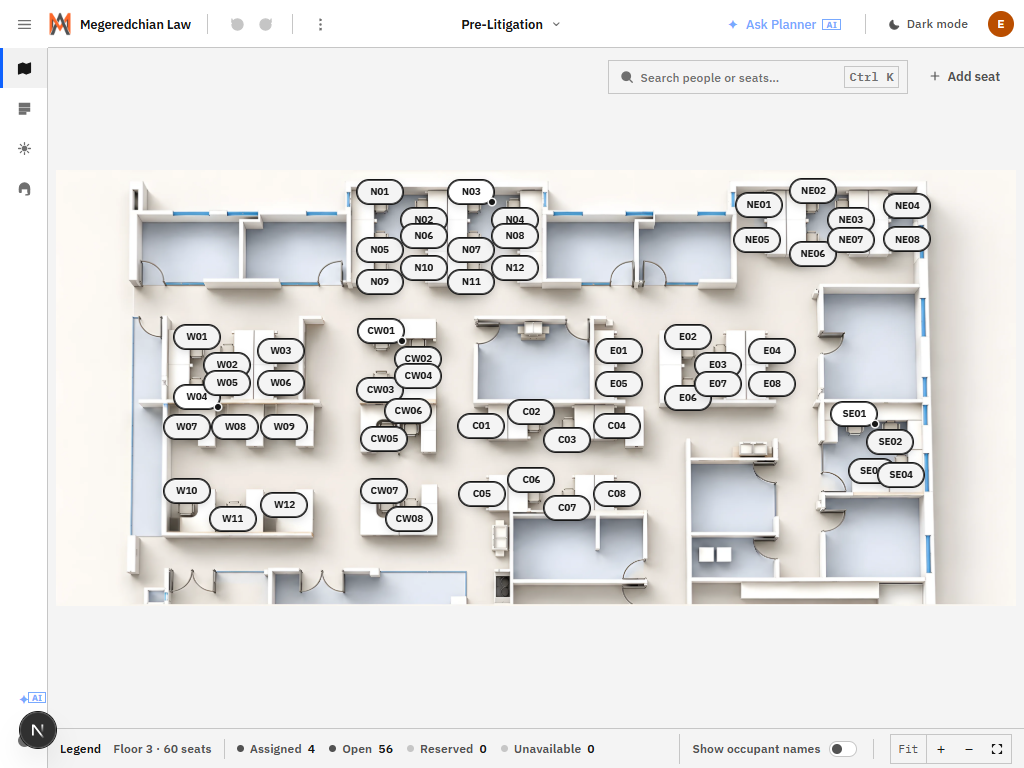
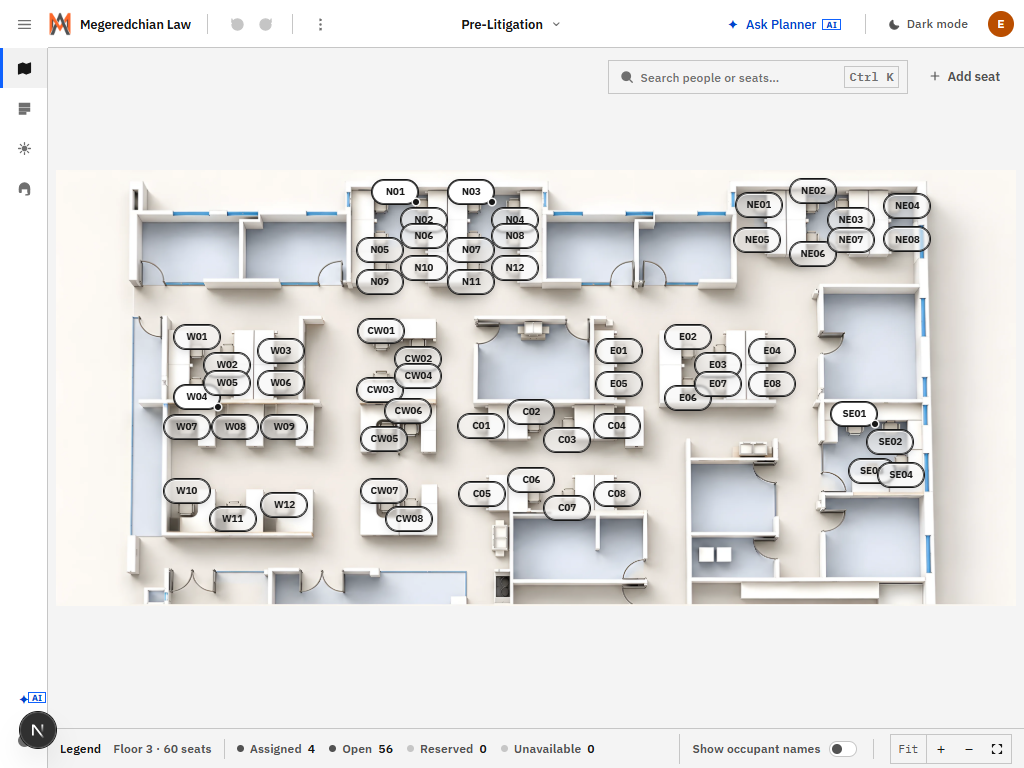
fix(redesign-v2): phase 4 PR 1 — contrast placeholders the axe scans caught
CI's e2e-auth axe scans failed 28 times on one cause: the old chrome
follows the theme now (light in the light theme), so bridge aliases
that assumed a dark surface rendered blue 40 / white on white.

- phase4-bridge.css: --sp-chrome-heading/-value/-info-text → text-primary,
  --sp-chrome-label → text-secondary, --sp-chrome-info → layer-02,
  --sp-ai-chrome-border → ai-border-start, --sp-ai-chrome-text →
  ai-label-text-hover (blue 70; blue 60 is 4.42:1 on the hovered fill),
  --sp-marker-available-surface → a translucent color-mix (the old 55%
  frost: an opaque fill under the 45% dim can never clear 4.5:1).
- Blue 60 link text on the layer-hover fill (4.08:1) → --sp-link-hover in
  every className that pairs the two (17 sites); the Management monogram
  → text-primary; helper text in the swap dialog's layer-accent cards →
  text-secondary.
- Screenshots regenerated; PHASE4BUILD §1.5 records the corrections.

Verified locally on a fresh Docker stack: test:e2e:auth 30/30, runtime
audit 0 undefined var(), npm test 1390/0.

Claude-Session: https://claude.ai/code/session_01NxF2qDwjPePWdZetFUFDzU

diff --git a/components/seat-map/SeatMap.tsx b/components/seat-map/SeatMap.tsx
@@ -2566,8 +2566,8 @@ export function SeatMap({
       : "border-[var(--sp-editor-saved-border)] bg-[var(--sp-editor-saved-bg)] text-[var(--sp-editor-saved-text)]",
     canvasBannerSafeAreaClassName
   ].filter(Boolean).join(" ");
-  const resultActionButtonClassName = "relative inline-flex min-h-8 items-center justify-center rounded-lg border border-[var(--sp-border-strong)] bg-[var(--sp-layer-01)] px-3 py-1.5 text-xs font-semibold text-[var(--sp-text-secondary)] transition after:absolute after:-inset-y-1.5 after:inset-x-0 hover:border-[var(--sp-border-interactive)] hover:bg-[var(--sp-layer-hover)] hover:text-[var(--sp-link)] active:scale-[0.97] active:duration-75 active:shadow-inner focus-visible:outline-none focus-visible:ring-4 focus-visible:ring-[color:var(--sp-focus)] disabled:cursor-not-allowed disabled:opacity-50";
-  const resultClearButtonClassName = "relative inline-flex min-h-8 items-center justify-center rounded-lg border border-[var(--sp-border-interactive)] bg-[var(--sp-layer-hover)] px-3 py-1.5 text-xs font-semibold text-[var(--sp-link)] transition after:absolute after:-inset-y-1.5 after:inset-x-0 hover:border-[var(--sp-interactive)] hover:bg-[rgba(242,110,34,0.16)] active:scale-[0.97] active:duration-75 active:shadow-inner focus-visible:outline-none focus-visible:ring-4 focus-visible:ring-[color:var(--sp-focus)]";
+  const resultActionButtonClassName = "relative inline-flex min-h-8 items-center justify-center rounded-lg border border-[var(--sp-border-strong)] bg-[var(--sp-layer-01)] px-3 py-1.5 text-xs font-semibold text-[var(--sp-text-secondary)] transition after:absolute after:-inset-y-1.5 after:inset-x-0 hover:border-[var(--sp-border-interactive)] hover:bg-[var(--sp-layer-hover)] hover:text-[var(--sp-link-hover)] active:scale-[0.97] active:duration-75 active:shadow-inner focus-visible:outline-none focus-visible:ring-4 focus-visible:ring-[color:var(--sp-focus)] disabled:cursor-not-allowed disabled:opacity-50";
+  const resultClearButtonClassName = "relative inline-flex min-h-8 items-center justify-center rounded-lg border border-[var(--sp-border-interactive)] bg-[var(--sp-layer-hover)] px-3 py-1.5 text-xs font-semibold text-[var(--sp-link-hover)] transition after:absolute after:-inset-y-1.5 after:inset-x-0 hover:border-[var(--sp-interactive)] hover:bg-[rgba(242,110,34,0.16)] active:scale-[0.97] active:duration-75 active:shadow-inner focus-visible:outline-none focus-visible:ring-4 focus-visible:ring-[color:var(--sp-focus)]";
   const visibleMapSpan = Math.max(0, mapVisibleRange.right - mapVisibleRange.left);
   const mapPixelsPerNormalizedUnit = visibleMapSpan > 0 && mapVisibleRange.viewportWidth > 0
     ? mapVisibleRange.viewportWidth / visibleMapSpan
@@ -3299,7 +3299,7 @@ export function SeatMap({
                   className={[
                     "pointer-events-auto relative flex h-8 items-center gap-1.5 border px-3 text-[12.5px] font-semibold shadow-sp transition after:absolute after:-inset-y-1.5 after:inset-x-0 active:scale-[0.97] active:duration-75 focus-visible:outline-none focus-visible:ring-2 focus-visible:ring-[var(--sp-focus)]",
                     addSeatMode
-                      ? "border-[var(--sp-interactive)] bg-[var(--sp-layer-hover)] text-[var(--sp-link)]"
+                      ? "border-[var(--sp-interactive)] bg-[var(--sp-layer-hover)] text-[var(--sp-link-hover)]"
                       : "border-[var(--sp-border-subtle)] bg-[var(--sp-layer-01)] text-[var(--sp-text-secondary)] hover:bg-[var(--sp-background)] hover:text-[var(--sp-text-primary)]"
                   ].join(" ")}
                 >
@@ -3696,7 +3696,7 @@ export function SeatMap({
             </p>
           )}
           <div className="mt-3 flex flex-wrap items-center gap-2">
-            <button type="button" onClick={activeMode.onExit} className="shrink-0 whitespace-nowrap rounded-full bg-[var(--sp-layer-hover)] px-3 py-1.5 text-xs font-semibold text-[var(--sp-link)] ring-1 ring-[var(--sp-border-interactive)] transition hover:bg-sp-surface active:scale-[0.97] active:duration-75 active:shadow-inner focus-visible:outline-none focus-visible:ring-4 focus-visible:ring-[color:var(--sp-focus)]">
+            <button type="button" onClick={activeMode.onExit} className="shrink-0 whitespace-nowrap rounded-full bg-[var(--sp-layer-hover)] px-3 py-1.5 text-xs font-semibold text-[var(--sp-link-hover)] ring-1 ring-[var(--sp-border-interactive)] transition hover:bg-sp-surface active:scale-[0.97] active:duration-75 active:shadow-inner focus-visible:outline-none focus-visible:ring-4 focus-visible:ring-[color:var(--sp-focus)]">
               {activeMode.exitLabel}
             </button>
             <span className="rounded-full bg-[var(--sp-background)] px-2 py-1 text-xs font-semibold text-[var(--sp-text-helper)] ring-1 ring-[var(--sp-border-subtle)]">Esc exits</span>

diff --git a/components/seat-map/ResultsPanel.tsx b/components/seat-map/ResultsPanel.tsx
@@ -172,7 +172,7 @@ export function ResultsPanel({
                   onClick={() => onShowOnMap(result.seatId as string)}
                   aria-label={`Show ${result.title} on the map`}
                   title={`Show ${result.title} on the map`}
-                  className="relative my-1 mr-1 flex shrink-0 items-center self-center whitespace-nowrap rounded-lg border border-[var(--sp-border-subtle)] bg-[var(--sp-layer-01)] px-2.5 py-1 text-xs font-semibold text-[var(--sp-button-primary)] transition after:absolute after:-inset-y-2.5 after:inset-x-0 hover:border-[var(--sp-border-interactive)] hover:bg-[var(--sp-layer-hover)] hover:text-[var(--sp-link)] focus-visible:outline-none focus-visible:ring-4 focus-visible:ring-[color:var(--sp-focus)]"
+                  className="relative my-1 mr-1 flex shrink-0 items-center self-center whitespace-nowrap rounded-lg border border-[var(--sp-border-subtle)] bg-[var(--sp-layer-01)] px-2.5 py-1 text-xs font-semibold text-[var(--sp-button-primary)] transition after:absolute after:-inset-y-2.5 after:inset-x-0 hover:border-[var(--sp-border-interactive)] hover:bg-[var(--sp-layer-hover)] hover:text-[var(--sp-link-hover)] focus-visible:outline-none focus-visible:ring-4 focus-visible:ring-[color:var(--sp-focus)]"
                 >
                   Show on map
                 </button>
@@ -197,7 +197,7 @@ export function ResultsPanel({
               </button>
             )}
             {searchActive && structuredFiltersActive && (
-              <button type="button" onClick={onClearAll} className="relative rounded-lg border border-[var(--sp-border-interactive)] bg-[var(--sp-layer-hover)] px-3 py-1.5 text-xs font-semibold text-[var(--sp-link)] transition after:absolute after:-inset-y-2 after:inset-x-0 hover:border-[var(--sp-interactive)] focus-visible:outline-none focus-visible:ring-4 focus-visible:ring-[color:var(--sp-focus)]">
+              <button type="button" onClick={onClearAll} className="relative rounded-lg border border-[var(--sp-border-interactive)] bg-[var(--sp-layer-hover)] px-3 py-1.5 text-xs font-semibold text-[var(--sp-link-hover)] transition after:absolute after:-inset-y-2 after:inset-x-0 hover:border-[var(--sp-interactive)] focus-visible:outline-none focus-visible:ring-4 focus-visible:ring-[color:var(--sp-focus)]">
                 Clear all
               </button>
             )}

diff --git a/components/seat-map/FilterPanel.tsx b/components/seat-map/FilterPanel.tsx
@@ -94,7 +94,7 @@ export function ActiveFilterChips({
         <button
           type="button"
           onClick={onClearAll}
-          className="relative inline-flex min-h-6 items-center border border-[var(--sp-border-interactive)] bg-[var(--sp-layer-hover)] px-2.5 py-1 text-xs font-semibold text-[var(--sp-link)] transition after:absolute after:-inset-y-[3px] after:inset-x-0 hover:bg-[color-mix(in_srgb,var(--sp-interactive)_16%,transparent)] focus-visible:outline-none focus-visible:ring-2 focus-visible:ring-[color:var(--sp-focus)]"
+          className="relative inline-flex min-h-6 items-center border border-[var(--sp-border-interactive)] bg-[var(--sp-layer-hover)] px-2.5 py-1 text-xs font-semibold text-[var(--sp-link-hover)] transition after:absolute after:-inset-y-[3px] after:inset-x-0 hover:bg-[color-mix(in_srgb,var(--sp-interactive)_16%,transparent)] focus-visible:outline-none focus-visible:ring-2 focus-visible:ring-[color:var(--sp-focus)]"
         >
           Clear all
         </button>
@@ -272,7 +272,7 @@ export function FilterPanel({
           <button
             type="button"
             onClick={matchSummaryAction.onClick}
-            className="relative inline-flex items-center min-h-6 border border-[var(--sp-border-interactive)] bg-[var(--sp-layer-01)] px-2.5 py-1 text-xs font-semibold text-[var(--sp-link)] transition after:absolute after:-inset-y-2.5 after:inset-x-0 hover:bg-[var(--sp-layer-hover)] focus-visible:outline-none focus-visible:ring-2 focus-visible:ring-[color:var(--sp-focus)]"
+            className="relative inline-flex items-center min-h-6 border border-[var(--sp-border-interactive)] bg-[var(--sp-layer-01)] px-2.5 py-1 text-xs font-semibold text-[var(--sp-link-hover)] transition after:absolute after:-inset-y-2.5 after:inset-x-0 hover:bg-[var(--sp-layer-hover)] focus-visible:outline-none focus-visible:ring-2 focus-visible:ring-[color:var(--sp-focus)]"
           >
             {matchSummaryAction.label}
           </button>

diff --git a/components/seat-map/SeatInspector.tsx b/components/seat-map/SeatInspector.tsx
@@ -353,7 +353,7 @@ function ContactFacts({ rows, canEdit }: { rows: ContactFactRow[]; canEdit: bool
               onClick={() => copyExtension(row.value)}
               aria-label={`Copy extension ${row.value}`}
               title={copiedValue === row.value ? "Copied" : `Copy extension ${row.value}`}
-              className="relative flex h-8 w-8 shrink-0 items-center justify-center bg-[var(--sp-background)] text-[var(--sp-link)] transition after:absolute after:-inset-x-1.5 after:-inset-y-[5px] hover:bg-[var(--sp-layer-hover)] focus-visible:outline-none focus-visible:ring-2 focus-visible:ring-[var(--sp-focus)]"
+              className="relative flex h-8 w-8 shrink-0 items-center justify-center bg-[var(--sp-background)] text-[var(--sp-link-hover)] transition after:absolute after:-inset-x-1.5 after:-inset-y-[5px] hover:bg-[var(--sp-layer-hover)] focus-visible:outline-none focus-visible:ring-2 focus-visible:ring-[var(--sp-focus)]"
             >
               {copiedValue === row.value ? <CheckGlyph /> : <CopyGlyph />}
               {/* Live confirmation for screen readers (and the ct test's
@@ -1241,7 +1241,7 @@ export function SeatInspector({
                               index === activeEmployeeIndex ? "bg-[var(--sp-background)] text-[var(--sp-text-primary)]" : "text-[var(--sp-text-secondary)] hover:bg-[var(--sp-layer-hover)]"
                             ].join(" ")}
                           >
-                            <span className="mt-0.5 flex h-8 w-8 shrink-0 items-center justify-center rounded-full bg-[var(--sp-layer-hover)] text-[11px] font-bold text-[var(--sp-link)]">
+                            <span className="mt-0.5 flex h-8 w-8 shrink-0 items-center justify-center rounded-full bg-[var(--sp-layer-hover)] text-[11px] font-bold text-[var(--sp-link-hover)]">
                               {buildInitials(option.employee.full_name) || "?"}
                             </span>
                             <span className="min-w-0 flex-1">

diff --git a/components/ui/design-system.tsx b/components/ui/design-system.tsx
@@ -27,7 +27,7 @@ const buttonVariants: Record<ButtonVariant, string> = {
   primary:
     "border-[var(--sp-button-primary)] bg-[var(--sp-button-primary)] text-white hover:border-[var(--sp-button-primary-hover)] hover:bg-[var(--sp-button-primary-hover)] active:border-[var(--sp-button-primary-active)] active:bg-[var(--sp-button-primary-active)]",
   secondary:
-    "border-[var(--sp-border-strong)] bg-[var(--sp-layer-02)] text-[var(--sp-text-primary)] hover:border-[var(--sp-button-primary)] hover:bg-[var(--sp-layer-hover)] hover:text-[var(--sp-link)] active:border-[var(--sp-button-primary)] active:bg-[var(--sp-layer-active)]",
+    "border-[var(--sp-border-strong)] bg-[var(--sp-layer-02)] text-[var(--sp-text-primary)] hover:border-[var(--sp-button-primary)] hover:bg-[var(--sp-layer-hover)] hover:text-[var(--sp-link-hover)] active:border-[var(--sp-button-primary)] active:bg-[var(--sp-layer-active)]",
   quiet:
     "border-transparent bg-transparent text-[var(--sp-text-helper)] hover:bg-[var(--sp-layer-accent)] hover:text-[var(--sp-text-secondary)] active:bg-[var(--sp-text-secondary)] active:text-[var(--sp-text-secondary)]",
   destructive:
@@ -111,7 +111,7 @@ export type IconButtonProps = Omit<ButtonHTMLAttributes<HTMLButtonElement>, "ari
 
 const iconButtonVariants: Record<IconButtonVariant, string> = {
   neutral:
-    "border-[var(--sp-border-strong)] bg-[var(--sp-layer-02)] text-[var(--sp-text-secondary)] hover:border-[var(--sp-button-primary)] hover:bg-[var(--sp-layer-hover)] hover:text-[var(--sp-link)]",
+    "border-[var(--sp-border-strong)] bg-[var(--sp-layer-02)] text-[var(--sp-text-secondary)] hover:border-[var(--sp-button-primary)] hover:bg-[var(--sp-layer-hover)] hover:text-[var(--sp-link-hover)]",
   primary:
     "border-[var(--sp-button-primary)] bg-[var(--sp-button-primary)] text-white hover:border-[var(--sp-button-primary-hover)] hover:bg-[var(--sp-button-primary-hover)]",
   destructive:

diff --git a/app/styles/phase4-bridge.css b/app/styles/phase4-bridge.css
@@ -45,9 +45,9 @@
   --sp-ai-accent-soft: var(--sp-ai-border-start);
   --sp-ai-aura: transparent;
   --sp-ai-border: var(--sp-ai-border-start);
-  --sp-ai-chrome-border: var(--sp-ai-border-end);
-  --sp-ai-chrome-text: var(--sp-panel-dark-link);
-  --sp-ai-chrome-text-hover: var(--sp-panel-dark-link-hover);
+  --sp-ai-chrome-border: var(--sp-ai-border-start);
+  --sp-ai-chrome-text: var(--sp-ai-label-text-hover); /* blue 70: blue 60 is 4.42 on the hovered chrome fill (PHASE3DS §3 instance 2) */
+  --sp-ai-chrome-text-hover: var(--sp-ai-label-text-hover);
   --sp-ai-glow: transparent;
   --sp-ai-marker-aura: transparent;
   --sp-ai-marker-shadow: none;
@@ -55,10 +55,10 @@
   --sp-ai-panel-border: var(--sp-ai-border-start);
   --sp-ai-row: var(--sp-layer-hover);
   --sp-ai-text: var(--sp-ai-label-text);
-  --sp-chrome-heading: var(--sp-panel-dark-text);
+  --sp-chrome-heading: var(--sp-text-primary);
   --sp-chrome-height: var(--sp-shell-header-h);
-  --sp-chrome-info: var(--sp-panel-dark-layer);
-  --sp-chrome-info-text: var(--sp-panel-dark-text);
+  --sp-chrome-info: var(--sp-layer-02);
+  --sp-chrome-info-text: var(--sp-text-primary);
   --sp-chrome-scrim: var(--sp-overlay);
   --sp-editor-clean-bg: var(--sp-status-neutral-surface);
   --sp-editor-clean-border: var(--sp-status-neutral-mark);
@@ -125,7 +125,7 @@
   --sp-marker-assigned-surface: var(--sp-pill-fill);
   --sp-marker-assigned-text: var(--sp-pill-text);
   --sp-marker-available-border: var(--sp-seat-mark-stroke-color);
-  --sp-marker-available-surface: var(--sp-layer-01);
+  --sp-marker-available-surface: color-mix(in srgb, var(--sp-layer-01) 55%, transparent); /* translucent like the old 55% frost: an opaque fill under the 45% dim cannot clear 4.5:1 */
   --sp-marker-draft-badge: var(--sp-pill-badge);
   --sp-marker-draft-border: var(--sp-pill-badge);
   --sp-marker-draft-ring: var(--sp-pill-badge);

diff --git a/components/seat-map/SeatMapDialogs.tsx b/components/seat-map/SeatMapDialogs.tsx
@@ -580,14 +580,14 @@ export function SwapConfirmDialog({
 
         <div className="mt-4 grid gap-2">
           <div className="rounded-xl border border-[var(--sp-border-subtle)] bg-[var(--sp-layer-accent)] p-3">
-            <div className="text-xs font-semibold text-[var(--sp-text-helper)]">Source</div>
+            <div className="text-xs font-semibold text-[var(--sp-text-secondary)]">Source</div>
             <div className="mt-1 text-sm font-semibold text-[var(--sp-text-primary)]">{swapSourceSeat.label}<SeatFloorTag tag={crossFloorTag(swapSourceSeat, swapTargetSeat)} /></div>
-            <div className="text-sm text-[var(--sp-text-helper)]">{seatPersonLabel(swapSourceSeat)}</div>
+            <div className="text-sm text-[var(--sp-text-secondary)]">{seatPersonLabel(swapSourceSeat)}</div>
           </div>
           <div className="rounded-xl border border-[var(--sp-border-subtle)] bg-[var(--sp-layer-accent)] p-3">
-            <div className="text-xs font-semibold text-[var(--sp-text-helper)]">Target</div>
+            <div className="text-xs font-semibold text-[var(--sp-text-secondary)]">Target</div>
             <div className="mt-1 text-sm font-semibold text-[var(--sp-text-primary)]">{swapTargetSeat.label}<SeatFloorTag tag={crossFloorTag(swapTargetSeat, swapSourceSeat)} /></div>
-            <div className="text-sm text-[var(--sp-text-helper)]">{seatPersonLabel(swapTargetSeat)}</div>
+            <div className="text-sm text-[var(--sp-text-secondary)]">{seatPersonLabel(swapTargetSeat)}</div>
           </div>
         </div>
 

diff --git a/components/admin-settings/DataUtilitiesPanel.tsx b/components/admin-settings/DataUtilitiesPanel.tsx
@@ -491,7 +491,7 @@ export function DataUtilitiesPanel({ seats, publishedSeats, employees }: DataUti
                   </ul>
                 </div>
               ) : (
-                <div className="mt-3 border border-[var(--sp-border-interactive)] bg-[var(--sp-layer-hover)] p-3 text-sm font-semibold leading-5 text-[var(--sp-link)]">
+                <div className="mt-3 border border-[var(--sp-border-interactive)] bg-[var(--sp-layer-hover)] p-3 text-sm font-semibold leading-5 text-[var(--sp-link-hover)]">
                   This applies the CSV to the draft map only. Viewers will not see these changes until you publish.
                 </div>
               )}
@@ -558,7 +558,7 @@ export function DataUtilitiesPanel({ seats, publishedSeats, employees }: DataUti
                 <ReviewCountCard label="Employees" value={jsonReview.employeeCount} tone="warn" />
               </div>
 
-              <div className="mt-3 border border-[var(--sp-border-interactive)] bg-[var(--sp-layer-hover)] p-3 text-sm font-semibold leading-5 text-[var(--sp-link)]">
+              <div className="mt-3 border border-[var(--sp-border-interactive)] bg-[var(--sp-layer-hover)] p-3 text-sm font-semibold leading-5 text-[var(--sp-link-hover)]">
                 This can replace draft assignments, custom seats, notes, and employee details in the draft. Viewers will not see restored data until publish.
               </div>
             </div>

diff --git a/components/admin-management/AdminManagementPanel.tsx b/components/admin-management/AdminManagementPanel.tsx
@@ -982,7 +982,7 @@ export function AdminManagementPanel({
                           >
                             <td className={[cellClass, "pl-4"].join(" ")}>
                               <div className="flex items-center gap-2.5">
-                                <span aria-hidden="true" className="flex h-6 w-6 shrink-0 items-center justify-center rounded-full bg-[var(--sp-layer-hover)] text-xs font-bold text-[var(--sp-link)]">{getInitials(employee.full_name)}</span>
+                                <span aria-hidden="true" className="flex h-6 w-6 shrink-0 items-center justify-center rounded-full bg-[var(--sp-layer-hover)] text-xs font-bold text-[var(--sp-text-primary)]">{getInitials(employee.full_name)}</span>
                                 {/* Contract #13: the name is the map affordance —
                                     a real link so it is shareable and middle-clickable.
                                     Unseated people have nothing to show, so they stay text. */}

diff --git a/components/seat-map/DeptChipRow.tsx b/components/seat-map/DeptChipRow.tsx
@@ -34,7 +34,7 @@ export function DeptChipRow({ departments, counts, activeDepartment, onSelectDep
               // brought to 44 anyway; re-check adjacency before reviving.
               "relative flex h-8 items-center gap-1.5 border px-2.5 text-[12px] font-semibold shadow-sp transition after:absolute after:-inset-1.5 active:scale-[0.97] active:duration-75 focus-visible:outline-none focus-visible:ring-2 focus-visible:ring-[var(--sp-focus)]",
               active
-                ? "border-[var(--sp-interactive)] bg-[var(--sp-layer-hover)] text-[var(--sp-link)]"
+                ? "border-[var(--sp-interactive)] bg-[var(--sp-layer-hover)] text-[var(--sp-link-hover)]"
                 : "border-[var(--sp-border-subtle)] bg-[var(--sp-layer-01)] text-[var(--sp-text-secondary)] hover:bg-[var(--sp-background)] hover:text-[var(--sp-text-primary)]"
             ].join(" ")}
           >

diff --git a/components/seat-map/ViewerFindPalette.tsx b/components/seat-map/ViewerFindPalette.tsx
@@ -421,7 +421,7 @@ export function ViewerFindPalette({
                       className={cx(
                         "relative inline-flex max-w-full items-center gap-1.5 truncate rounded-full border px-2.5 py-1 text-xs font-semibold transition after:absolute after:-inset-x-[3px] after:-inset-y-[3px] focus-visible:outline-none focus-visible:ring-2 focus-visible:ring-[color:var(--sp-focus)]",
                         pinned
-                          ? "border-[var(--sp-interactive)] bg-[var(--sp-layer-hover)] text-[var(--sp-link)]"
+                          ? "border-[var(--sp-interactive)] bg-[var(--sp-layer-hover)] text-[var(--sp-link-hover)]"
                           : "border-[var(--sp-border-subtle)] bg-[var(--sp-background)] text-[var(--sp-text-secondary)] hover:border-[var(--sp-border-interactive)]"
                       )}
                     >

diff --git a/components/seat-map/ViewerSeatFinder.tsx b/components/seat-map/ViewerSeatFinder.tsx
@@ -1906,7 +1906,7 @@ export function ViewerSeatFinder({
                   className={[
                     "pointer-events-auto relative flex h-8 w-8 items-center justify-center border shadow-sp transition after:absolute after:-inset-1.5 focus-visible:outline-none focus-visible:ring-2 focus-visible:ring-inset focus-visible:ring-[var(--sp-focus)]",
                     showNames
-                      ? "border-[var(--sp-border-interactive)] bg-[var(--sp-layer-hover)] text-[var(--sp-link)]"
+                      ? "border-[var(--sp-border-interactive)] bg-[var(--sp-layer-hover)] text-[var(--sp-link-hover)]"
                       : "border-[var(--sp-border-subtle)] bg-[var(--sp-layer-01)] text-[var(--sp-text-primary)] hover:bg-[var(--sp-background)]"
                   ].join(" ")}
                 >
